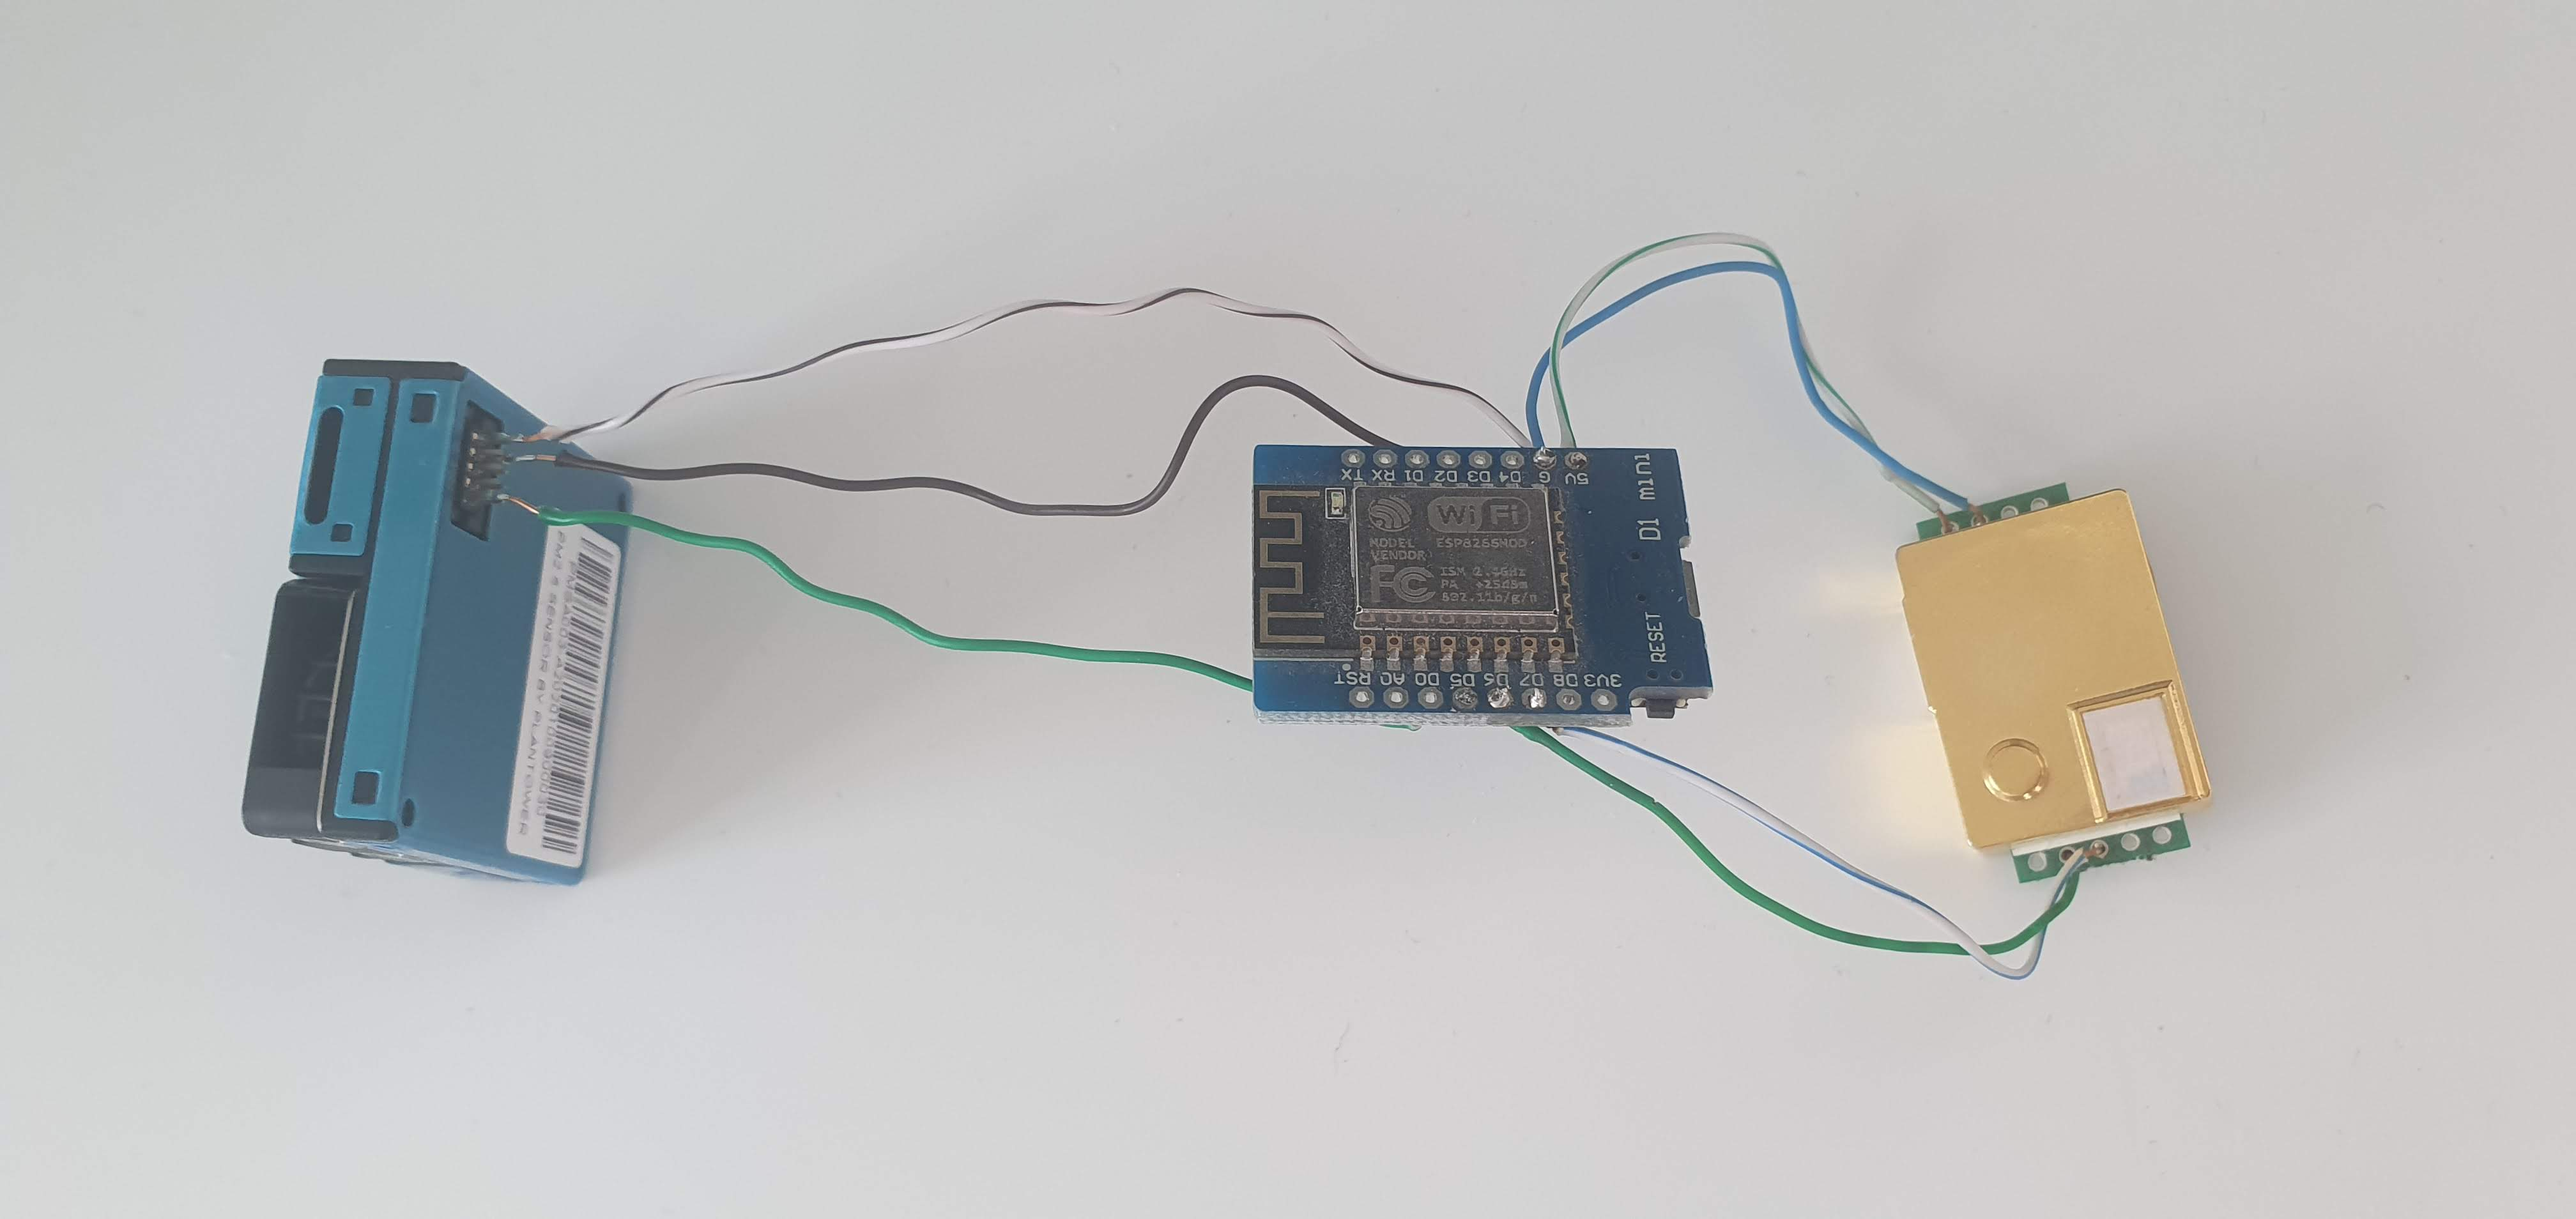
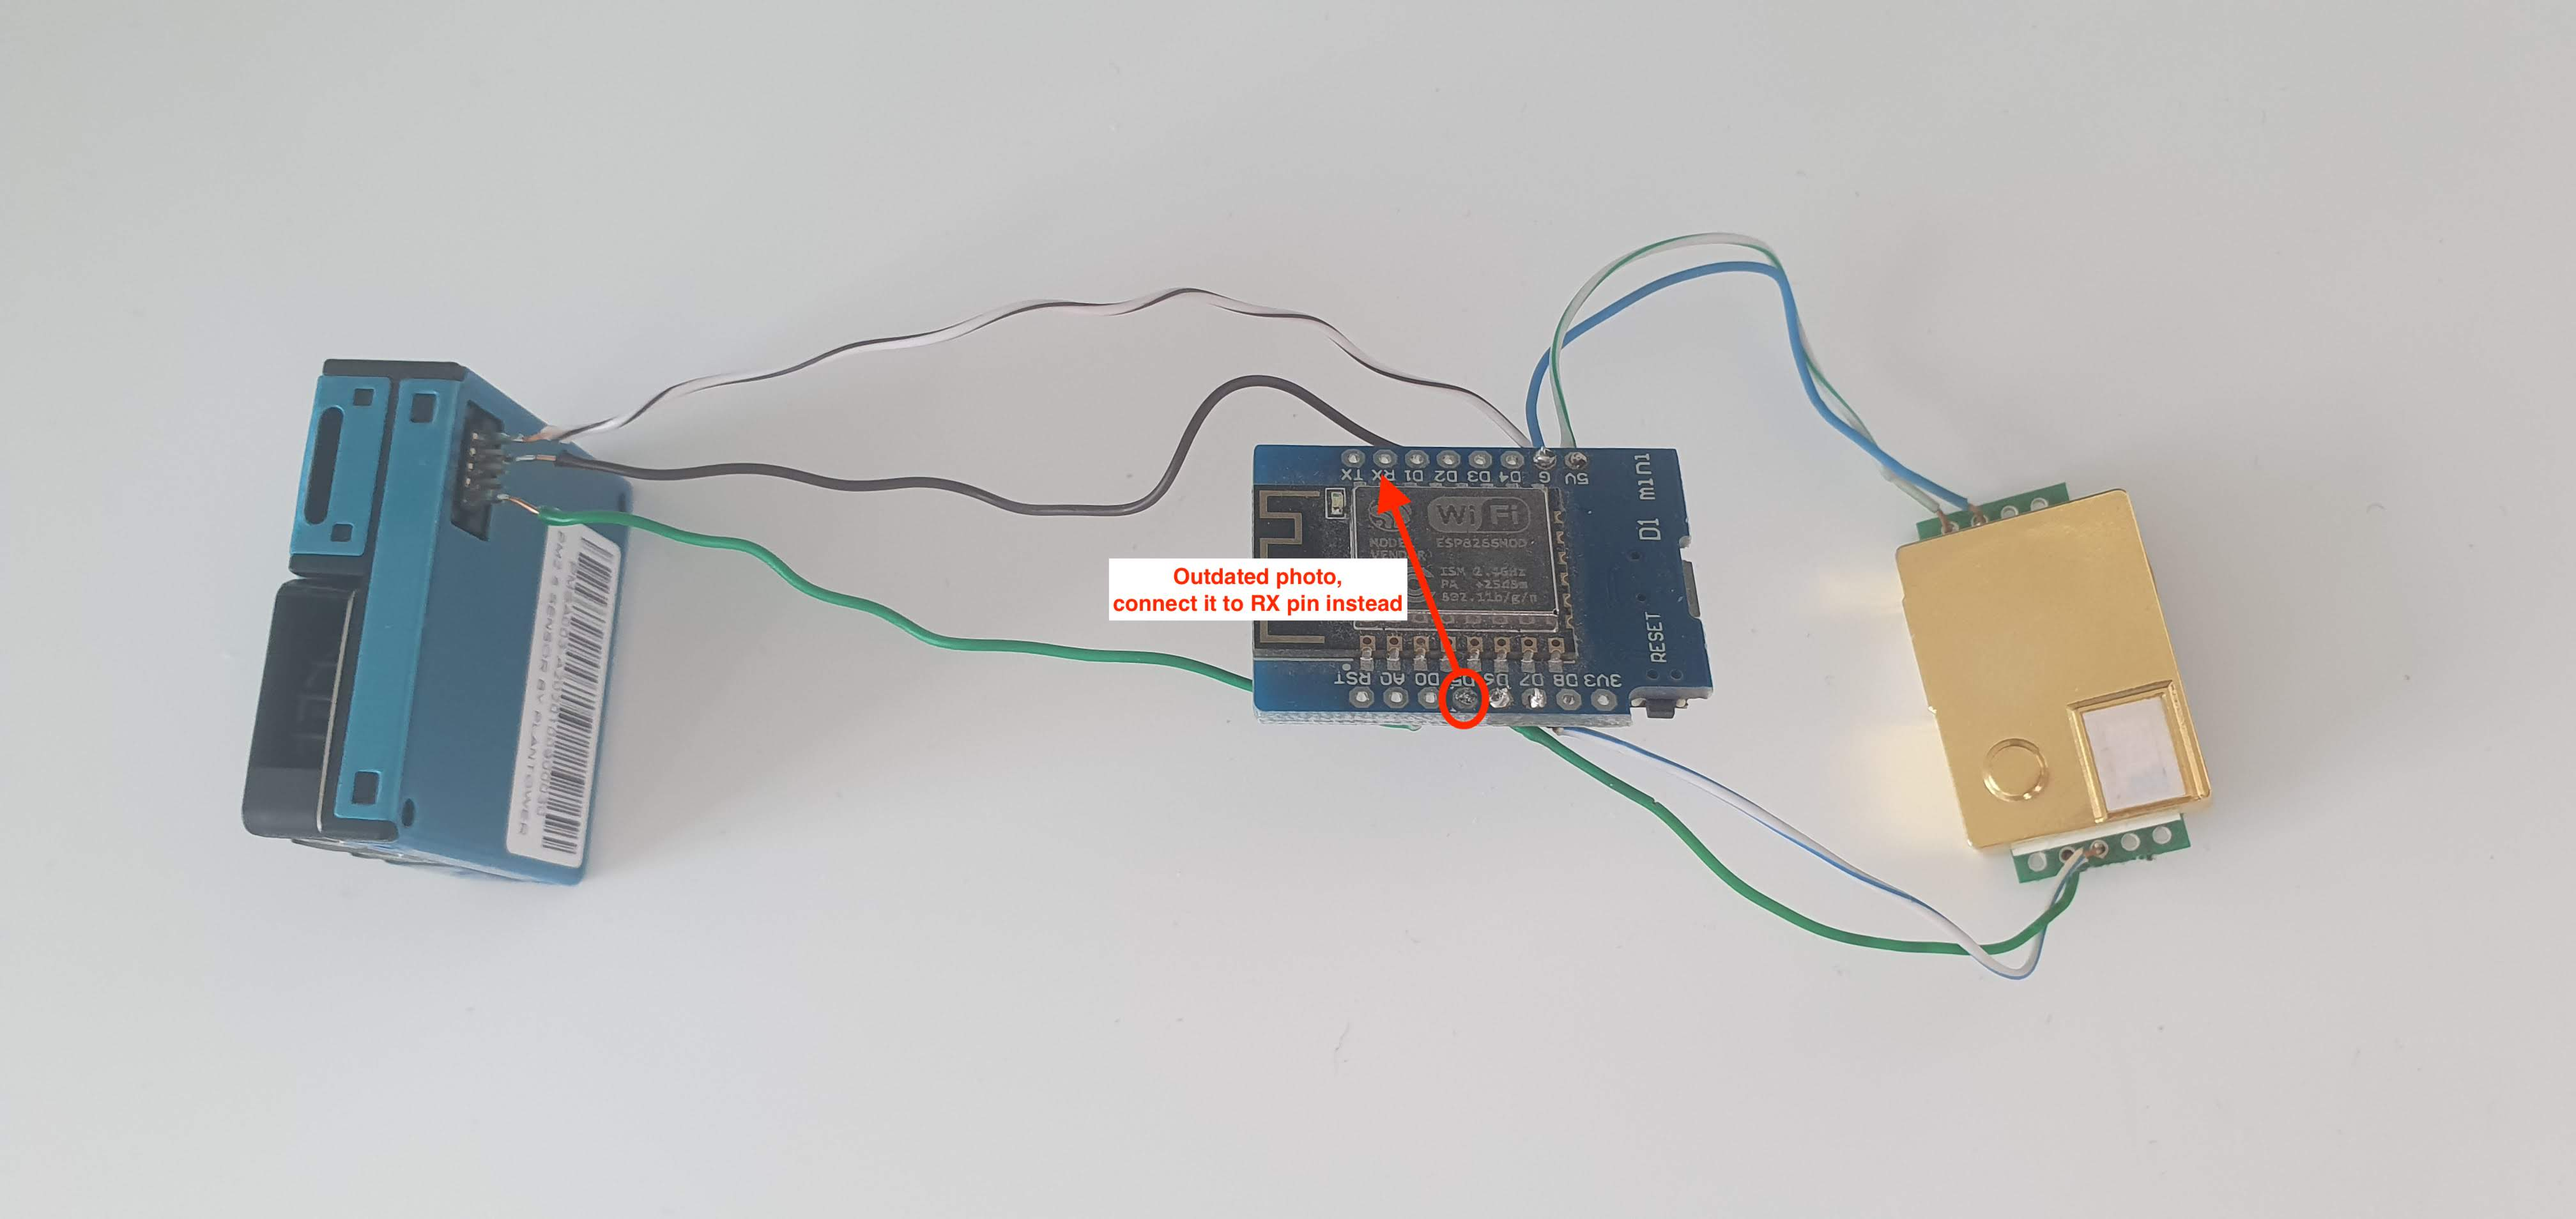
updated docs related to PMS unstability

Changed region(s): [[0.4062, 0.402, 0.5625, 0.5257], [0.5312, 0.5257, 0.5938, 0.6184]]

diff --git a/README.md b/README.md
@@ -22,7 +22,8 @@ https://www.thingiverse.com/thing:4918099
 
 ## Notes
 
-All PM measurements are throttled to 1 minute to don't overload network/Home Assistant with a lot of useless data. By default PMSA003 sensor sends measurements each 200ms – 2 seconds.
+- All PM measurements are throttled to 1 minute to don't overload network/Home Assistant with a lot of useless data. By default PMSA003 sensor sends measurements each 200ms – 2 seconds.
+- PMSA003 MUST be connected via hardware UART for stability reasons. Check https://github.com/esphome/issues/issues/2374
 
 ## Price
 
